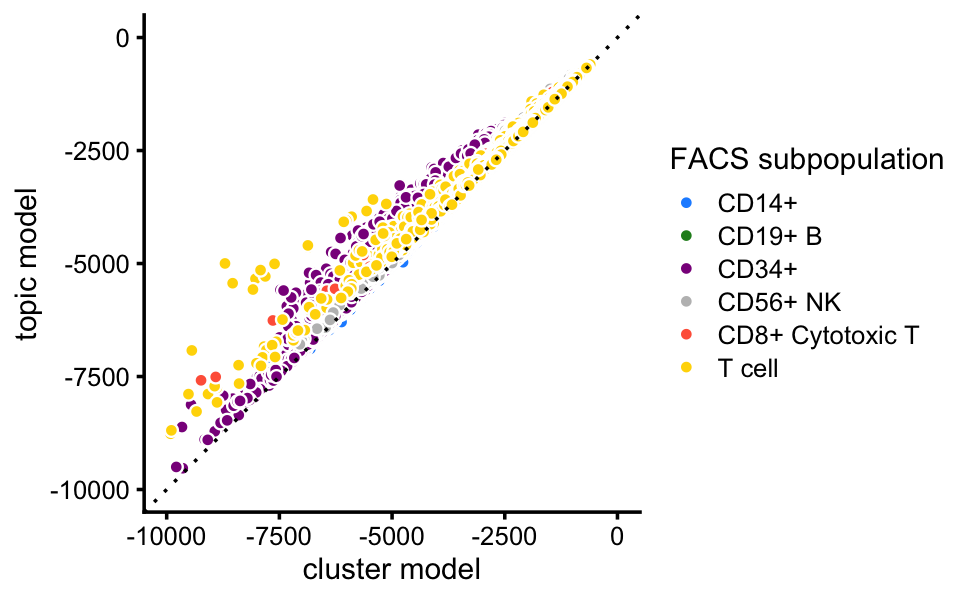
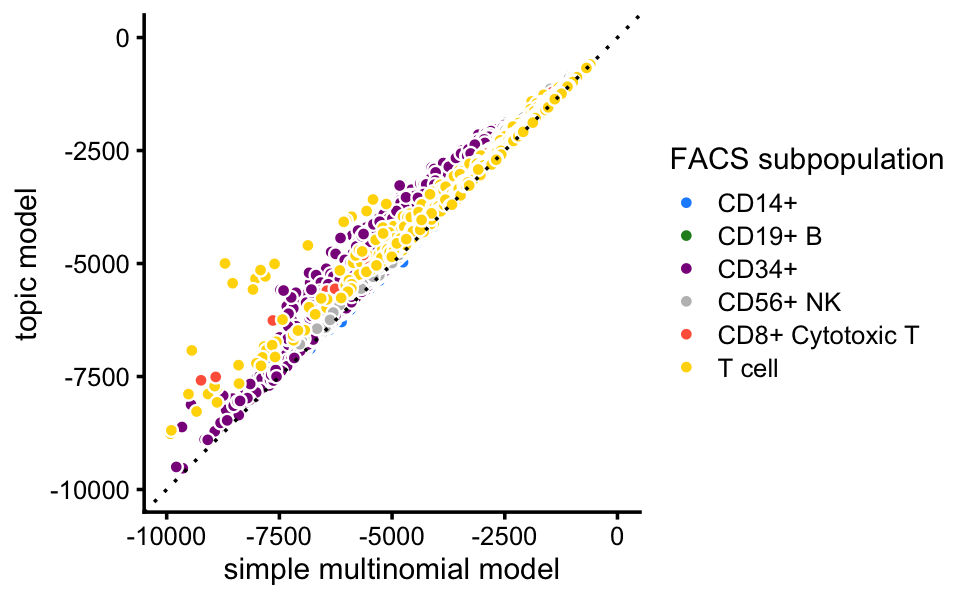
Revised "simple multinomial model" calculations in loglik_purified_pbmc analysis.

Changed region(s): [[0.2188, 0.93, 0.5938, 0.99]]

diff --git a/docs/loglik_purified_pbmc.html b/docs/loglik_purified_pbmc.html
@@ -323,7 +323,7 @@ $(document).ready(function () {
 <div class="tab-content">
 <div id="summary" class="tab-pane fade in active">
 <p>
-<strong>Last updated:</strong> 2021-01-06
+<strong>Last updated:</strong> 2021-01-21
 </p>
 <p>
 <strong>Checks:</strong> <span class="glyphicon glyphicon-ok text-success" aria-hidden="true"></span> 7 <span class="glyphicon glyphicon-exclamation-sign text-danger" aria-hidden="true"></span> 0
@@ -414,22 +414,23 @@ This reproducible <a href="http://rmarkdown.rstudio.com">R Markdown</a> analysis
 <div class="panel panel-default">
 <div class="panel-heading">
 <p class="panel-title">
-<a data-toggle="collapse" data-parent="#workflowr-checks" href="#strongRepositoryversionstrongahrefhttpsgithubcomstephenslabsinglecelltopicstree09cad982e0d92e5b6424887b5f96920ce4c6282etargetblank09cad98a"> <span class="glyphicon glyphicon-ok text-success" aria-hidden="true"></span> <strong>Repository version:</strong> <a href="https://github.com/stephenslab/single-cell-topics/tree/09cad982e0d92e5b6424887b5f96920ce4c6282e" target="_blank">09cad98</a> </a>
+<a data-toggle="collapse" data-parent="#workflowr-checks" href="#strongRepositoryversionstrongahrefhttpsgithubcomstephenslabsinglecelltopicstree88cd3c5837e98e5f869b1e041c1f528fe4b1a286targetblank88cd3c5a"> <span class="glyphicon glyphicon-ok text-success" aria-hidden="true"></span> <strong>Repository version:</strong> <a href="https://github.com/stephenslab/single-cell-topics/tree/88cd3c5837e98e5f869b1e041c1f528fe4b1a286" target="_blank">88cd3c5</a> </a>
 </p>
 </div>
[2 lines of base64/hex data omitted]
 <div class="panel-body">
 <p>
 Great! You are using Git for version control. Tracking code development and connecting the code version to the results is critical for reproducibility.
 </p>
 <p>
-The results in this page were generated with repository version <a href="https://github.com/stephenslab/single-cell-topics/tree/09cad982e0d92e5b6424887b5f96920ce4c6282e" target="_blank">09cad98</a>. See the <em>Past versions</em> tab to see a history of the changes made to the R Markdown and HTML files.
+The results in this page were generated with repository version <a href="https://github.com/stephenslab/single-cell-topics/tree/88cd3c5837e98e5f869b1e041c1f528fe4b1a286" target="_blank">88cd3c5</a>. See the <em>Past versions</em> tab to see a history of the changes made to the R Markdown and HTML files.
 </p>
 <p>
 Note that you need to be careful to ensure that all relevant files for the analysis have been committed to Git prior to generating the results (you can use <code>wflow_publish</code> or <code>wflow_git_commit</code>). workflowr only checks the R Markdown file, but you know if there are other scripts or data files that it depends on. Below is the status of the Git repository when the results were generated:
 </p>
 <pre><code>
 Ignored files:
+    Ignored:    analysis/figure/
     Ignored:    data/droplet.RData
     Ignored:    data/pbmc_68k.RData
     Ignored:    data/pbmc_purified.RData
@@ -447,8 +448,13 @@ Ignored files:
     Ignored:    output/pulseseq/rds/
 
 Untracked files:
+    Untracked:  analysis/clustering-pbmc-purified.rds
     Untracked:  analysis/plots_purified_pbmc_cache/
     Untracked:  plots/
+
+Unstaged changes:
+    Modified:   analysis/plots_purified_pbmc.Rmd
+    Modified:   analysis/temp2.R
 
 </code></pre>
 <p>
@@ -487,6 +493,57 @@ Message
 </tr>
 </thead>
 <tbody>
+<tr>
+<td>
+Rmd
+</td>
+<td>
+<a href="https://github.com/stephenslab/single-cell-topics/blob/88cd3c5837e98e5f869b1e041c1f528fe4b1a286/analysis/loglik_purified_pbmc.Rmd" target="_blank">88cd3c5</a>
+</td>
+<td>
+Peter Carbonetto
+</td>
+<td>
+2021-01-21
+</td>
+<td>
+workflowr::wflow_publish(“loglik_purified_pbmc.Rmd”)
+</td>
+</tr>
+<tr>
+<td>
+Rmd
+</td>
+<td>
+<a href="https://github.com/stephenslab/single-cell-topics/blob/b3724ab1182e48a9606f283aceca81099a1d8398/analysis/loglik_purified_pbmc.Rmd" target="_blank">b3724ab</a>
+</td>
+<td>
+Peter Carbonetto
+</td>
+<td>
+2021-01-15
+</td>
+<td>
+Working on matthews_idea.R exploratory analysis script.
+</td>
+</tr>
+<tr>
+<td>
+html
+</td>
+<td>
+<a href="https://rawcdn.githack.com/stephenslab/single-cell-topics/256141bac5feeb386a8317186a97e9965da867c1/docs/loglik_purified_pbmc.html" target="_blank">256141b</a>
+</td>
+<td>
+Peter Carbonetto
+</td>
+<td>
+2021-01-06
+</td>
+<td>
+Adjusted the latest scatterplots in loglik_purified_pbmc analysis.
+</td>
+</tr>
 <tr>
 <td>
 Rmd
@@ -833,12 +890,11 @@ samples &lt;- readRDS(&quot;../output/pbmc-purified/clustering-pbmc-purified.rds
 <pre class="r"><code>loglik &lt;- loglik_multinom_topic_model(counts,fit)</code></pre>
 <p>This can be used to assess how well the topic model “fits” each cell.</p>
 <pre class="r"><code>pdat &lt;- data.frame(loglik)
-p1 &lt;- ggplot(pdat,aes(loglik)) +
+ggplot(pdat,aes(loglik)) +
   geom_histogram(bins = 64,color = &quot;white&quot;,fill = &quot;black&quot;) +
   scale_x_continuous(breaks = seq(-20000,0,2500)) +
   labs(y = &quot;number of cells&quot;) +
-  theme_cowplot(font_size = 10)
-print(p1)</code></pre>
+  theme_cowplot(font_size = 10)</code></pre>
 <p><img src="figure/loglik_purified_pbmc.Rmd/loglik-2-1.png" width="660" style="display: block; margin: auto;" /></p>
 <p>
 <button type="button" class="btn btn-default btn-xs btn-workflowr btn-workflowr-fig" data-toggle="collapse" data-target="#fig-loglik-2-1">
@@ -888,7 +944,7 @@ Peter Carbonetto
 </table>
 </div>
 </div>
-<p>Combine the T-cell subpopulations into one category:</p>
+<p>For the plots, we combine the T-cell subpopulations into one category:</p>
 <pre class="r"><code>celltype &lt;- as.character(samples$celltype)
 celltype[celltype == &quot;CD14+ Monocyte&quot;] &lt;- &quot;CD14+&quot;
 celltype[celltype == &quot;CD4+/CD45RA+/CD25- Naive T&quot; |
@@ -899,13 +955,12 @@ celltype[celltype == &quot;CD4+/CD45RA+/CD25- Naive T&quot; |
 celltype &lt;- factor(celltype)</code></pre>
 <p>Most of the poorly fit cells are in the CD34+ subpopulation:</p>
 <pre class="r"><code>pdat &lt;- data.frame(loglik = loglik,celltype = celltype)
-p2 &lt;- ggplot(pdat,aes(x = loglik)) +
+ggplot(pdat,aes(x = loglik)) +
   geom_histogram(bins = 64,color = &quot;white&quot;,fill = &quot;black&quot;) +
   facet_wrap(vars(celltype),scales = &quot;free_y&quot;,ncol = 2) +
   scale_x_continuous(breaks = seq(-20000,0,2500)) +
   labs(y = &quot;number of cells&quot;) +
-  theme_cowplot(font_size = 9)
-print(p2)</code></pre>
+  theme_cowplot(font_size = 9)</code></pre>
 <p><img src="figure/loglik_purified_pbmc.Rmd/loglik-3-1.png" width="720" style="display: block; margin: auto;" /></p>
 <p>
 <button type="button" class="btn btn-default btn-xs btn-workflowr btn-workflowr-fig" data-toggle="collapse" data-target="#fig-loglik-3-1">
@@ -955,10 +1010,9 @@ Peter Carbonetto
 </table>
 </div>
 </div>
-<p>Here, we compare the single-cell likelihoods under the multinomial topic model against the likelihoods under a simple “clustering” model in which the underlying pattern of expression is estimated from all the cells in the FACS subpopulation. Thus, the predictions are based on 10 different expression patterms, one for each of the 10 FACS subpopulations. This serves partly as a “sanity check”, as we expect the more flexible topic model to offer a better fit.</p>
-<pre class="r"><code>fit_subpop &lt;- init_poisson_nmf_from_clustering(counts,samples$celltype)
-fit_subpop &lt;- poisson2multinom(fit_subpop)
-loglik_subpop &lt;- loglik_multinom_topic_model(counts,fit_subpop)</code></pre>
+<p>Here, we compare the single-cell likelihoods under the multinomial topic model against the likelihoods under a simple multinomial model in which all the cells in the same FACS subpopulation share the same multinomial probabilities. This serves partly as a “sanity check”, as we expect the more flexible topic model to offer a better fit than this simple multinomial model.</p>
+<pre class="r"><code>fit_facs &lt;- fit_multinom_model(samples$celltype,counts)
+loglik_facs &lt;- loglik_multinom_topic_model(counts,fit_facs)</code></pre>
 <p>Indeed, the topic model provides a better fit for almost all cells:</p>
 <pre class="r"><code>facs_colors &lt;- c(&quot;dodgerblue&quot;,  # B cells
                  &quot;forestgreen&quot;, # CD14+
@@ -966,16 +1020,16 @@ loglik_subpop &lt;- loglik_multinom_topic_model(counts,fit_subpop)</code></pre>
                  &quot;gray&quot;,        # NK cells
                  &quot;tomato&quot;,      # cytotoxic T cells
                  &quot;gold&quot;)        # T cells
-pdat &lt;- data.frame(x = loglik_subpop,y = loglik,celltype = celltype)
-p3 &lt;- ggplot(pdat,aes(x = x,y = y,fill = celltype)) +
+pdat &lt;- data.frame(x = loglik_facs,y = loglik,celltype = celltype)
+ggplot(pdat,aes(x = x,y = y,fill = celltype)) +
   geom_point(shape = 21,color = &quot;white&quot;) +
   geom_abline(intercept = 0,slope = 1,linetype = &quot;dotted&quot;) +
   scale_x_continuous(limits = c(-10000,0),breaks = seq(-10000,0,2500)) +
   scale_y_continuous(limits = c(-10000,0),breaks = seq(-10000,0,2500)) +
   scale_fill_manual(values = facs_colors) +
-  labs(x = &quot;cluster model&quot;,y = &quot;topic model&quot;,fill = &quot;FACS subpopulation&quot;) +
+  labs(x = &quot;simple multinomial model&quot;,y = &quot;topic model&quot;,
+       fill = &quot;FACS subpopulation&quot;) +
   theme_cowplot(font_size = 9)
-print(p3)
 # Warning: Removed 7 rows containing missing values (geom_point).</code></pre>
 <p><img src="figure/loglik_purified_pbmc.Rmd/loglik-5-1.png" width="480" style="display: block; margin: auto;" /></p>
 <p>
@@ -1038,16 +1092,17 @@ Peter Carbonetto
 </div>
 </div>
 <p>The improvement in fit is greatest for cells in the CD34+ and T cell FACS subpopulations:</p>
-<pre class="r"><code>p4 &lt;- ggplot(pdat,aes(x = x,y = y,fill = celltype)) +
+<pre class="r"><code>p1 &lt;- ggplot(pdat,aes(x = x,y = y,fill = celltype)) +
   geom_point(shape = 21,color = &quot;white&quot;) +
   geom_abline(intercept = 0,slope = 1,linetype = &quot;dotted&quot;) +
   facet_wrap(vars(celltype)) +
   scale_x_continuous(limits = c(-10000,0),breaks = seq(-10000,0,2500)) +
   scale_y_continuous(limits = c(-10000,0),breaks = seq(-10000,0,2500)) +
   scale_fill_manual(values = facs_colors) +
-  labs(x = &quot;cluster model&quot;,y = &quot;topic model&quot;,fill = &quot;FACS subpopulation&quot;) +
+  labs(x = &quot;simple multinomial model&quot;,y = &quot;topic model&quot;,
+       fill = &quot;FACS subpopulation&quot;) +
   theme_cowplot(font_size = 9)
-print(p4)
+print(p1)
 # Warning: Removed 7 rows containing missing values (geom_point).</code></pre>
 <p><img src="figure/loglik_purified_pbmc.Rmd/loglik-6-1.png" width="780" style="display: block; margin: auto;" /></p>
 <p>
@@ -1109,22 +1164,21 @@ Peter Carbonetto
 </table>
 </div>
 </div>
+<p>Note that, although we do not distinguish the different T cell subtypes in the plots, the multinomial probabilities are estimated separately for each of the T cell subtypes.</p>
 <p>It is interesting that the topic model almost always provides a better fit for the T cells considering that the simple “clustering” model estimates a different expression pattern for each T cell subtype (e.g., naive T cells), whereas the topic model does not reach this level of granularity in the T cells.</p>
 <p>Finally, we compare the topic model likelihoods against another cluster-based model, this time using the clusters identified previously from the topic model mixture proportions.</p>
-<pre class="r"><code>fit_clusters &lt;- init_poisson_nmf_from_clustering(counts,samples$cluster)
-fit_clusters &lt;- poisson2multinom(fit_clusters)
+<pre class="r"><code>fit_clusters &lt;- fit_multinom_model(samples$cluster,counts)
 loglik_clusters &lt;- loglik_multinom_topic_model(counts,fit_clusters)</code></pre>
-<p>This is an interesting example where defining a separate cluster for the dendritic cells actually yields a <em>better</em> fit than the topic model. However, because only 308 cells are in this cluster (0.3% of the total), the overall impact on model fit is small.</p>
+<p>This is an interesting example where defining a separate cluster for the dendritic cells can actually yield a <em>better</em> fit than the topic model. However, because only 308 cells are in this cluster (0.3% of the total), the overall impact on model fit is small.</p>
 <pre class="r"><code>pdat &lt;- data.frame(x = loglik_clusters,y = loglik,cluster = samples$cluster)
-p5 &lt;- ggplot(pdat,aes(x = x,y = y)) +
+ggplot(pdat,aes(x = x,y = y)) +
   geom_point(shape = 21,color = &quot;white&quot;,fill = &quot;royalblue&quot;) +
   geom_abline(intercept = 0,slope = 1,linetype = &quot;dotted&quot;) +
   facet_wrap(vars(cluster)) +
   scale_x_continuous(limits = c(-10000,0),breaks = seq(-10000,0,2500)) +
   scale_y_continuous(limits = c(-10000,0),breaks = seq(-10000,0,2500)) +
-  labs(x = &quot;cluster model&quot;,y = &quot;topic model&quot;) +
+  labs(x = &quot;simple multinomial model&quot;,y = &quot;topic model&quot;) +
   theme_cowplot(font_size = 9)
-print(p5)
 # Warning: Removed 9 rows containing missing values (geom_point).</code></pre>
 <p><img src="figure/loglik_purified_pbmc.Rmd/loglik-8-1.png" width="600" style="display: block; margin: auto;" /></p>
 <p>
@@ -1149,6 +1203,17 @@ Date
 </tr>
 </thead>
 <tbody>
+<tr>
+<td>
+<a href="https://github.com/stephenslab/single-cell-topics/blob/256141bac5feeb386a8317186a97e9965da867c1/docs/figure/loglik_purified_pbmc.Rmd/loglik-8-1.png" target="_blank">256141b</a>
+</td>
+<td>
+Peter Carbonetto
+</td>
+<td>
+2021-01-06
+</td>
+</tr>
 <tr>
 <td>
 <a href="https://github.com/stephenslab/single-cell-topics/blob/1a636e42a34efde836aa7714e6903819cb665e59/docs/figure/loglik_purified_pbmc.Rmd/loglik-8-1.png" target="_blank">1a636e4</a>
@@ -1187,7 +1252,7 @@ Peter Carbonetto
 # [1] stats     graphics  grDevices utils     datasets  methods   base     
 # 
 # other attached packages:
-# [1] cowplot_1.0.0     ggplot2_3.3.0     fastTopics_0.4-13 Matrix_1.2-18    
+# [1] cowplot_1.0.0     ggplot2_3.3.0     fastTopics_0.4-26 Matrix_1.2-18    
 # 
 # loaded via a namespace (and not attached):
 #  [1] ggrepel_0.9.0        Rcpp_1.0.5           lattice_0.20-38     
